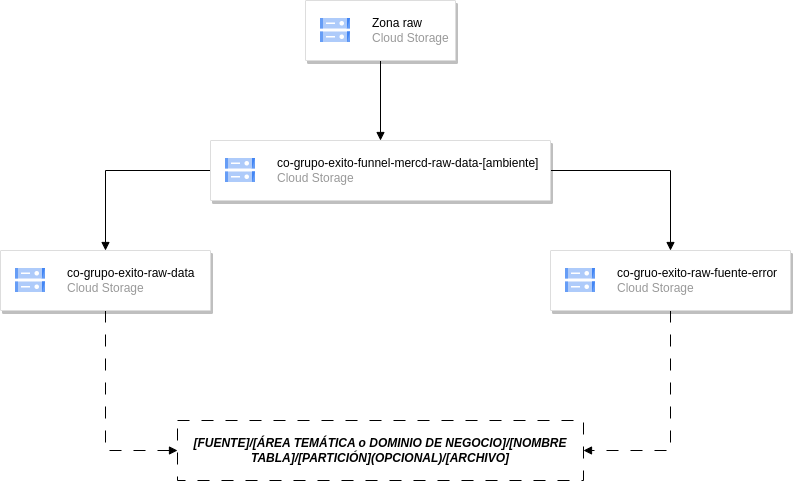
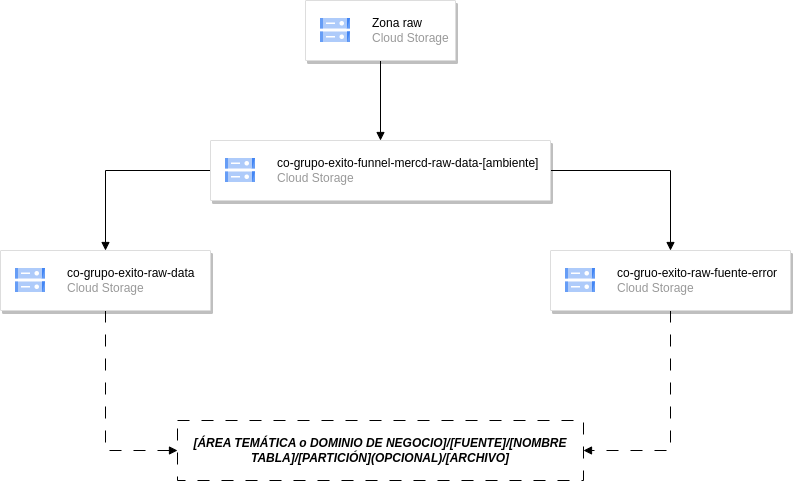
docs: Correcciones en la documentación

Changed region(s): [[0.2421, 0.9044, 0.6356, 0.9356]]

diff --git a/documentacion/reports/ArchitectureDocument.md b/documentacion/reports/ArchitectureDocument.md
@@ -6,7 +6,7 @@ El auge de las tecnologías en la nube ha cambiado radicalmente la forma en que 
 Google Cloud Platform (GCP) emerge como una solución líder, ofreciendo una gama de servicios innovadores que
 proporcionan la agilidad, escalabilidad y seguridad que las empresas modernas requieren.
 
-Este documento describe la arquitectura de datos propuesta para EL proyecto Funnel de Mercadeo, destacando
+Este documento describe la arquitectura de datos propuesta para el proyecto Funnel de Mercadeo, destacando
 la importancia de una infraestructura bien planificada que pueda respaldar tanto la operación inmediata como la visión
 a largo plazo de la organización.
 
@@ -68,7 +68,7 @@ precisos y confiables en todo momento.
 
 | Escenario                              | Given                                                     | When                                                   | Then                                                                                                                                                                                  |
 |----------------------------------------|-----------------------------------------------------------|--------------------------------------------------------|---------------------------------------------------------------------------------------------------------------------------------------------------------------------------------------|
-| Consistencia en el formato de datos    | Dado que los datos se ingresan en el Data Lake            | Cuando varias fuentes contribuyen con datos            | Entonces asegurarse de que los formatos de datos (por ejemplo, CSV, JSON, Apache Parquet, Delta) sean consistentes y validar que todos los campos de fecha sigan el estándar definido |                                                           |                                                        |                                                                                                                                                                  |
+| Consistencia en el formato de datos    | Dado que los datos se ingresan en el Data Lakehouse       | Cuando varias fuentes contribuyen con datos            | Entonces asegurarse de que los formatos de datos (por ejemplo, CSV, JSON, Apache Parquet, Delta) sean consistentes y validar que todos los campos de fecha sigan el estándar definido |                                                           |                                                        |                                                                                                                                                                  |
 | Consistencia en la validación de datos | Dado que se aplican procesos de transformación de datos   | Cuando los datos se transforman y limpian              | Entonces verificar que todos los datos cumplan con las reglas de validación definidas y asegurarse de la consistencia en el manejo de valores nulos en los conjuntos de datos         |
 | Consistencia en metadatos              | Dado que se definen metadatos para los conjuntos de datos | Cuando se realizan cambios en las estructuras de datos | Entonces actualizar automáticamente los metadatos para reflejar los cambios de esquema y asegurarse de que toda la documentación de datos permanezca consistente                      |
 
@@ -162,7 +162,7 @@ internas y externas.
 
 #### Métricas
 
-1. **Tiempo de acceso a datos**: Monitorear el tiempo de acceso a datos en el Data Lake de GCP.
+1. **Tiempo de acceso a datos**: Monitorear el tiempo de acceso a datos en el Data Lakehouse de GCP.
 2. **Latencia de consultas**: Medir la latencia de las consultas en GCP para mantener respuestas rápidas.
 3. **Uso de recursos**: Controlar el uso de recursos en GCP, incluyendo CPU y almacenamiento.
 4. **Seguridad y cumplimiento**: Asegurar la conformidad con las políticas de seguridad y normativas de cumplimiento.
@@ -258,26 +258,56 @@ A continuación, se esquematiza y detalla la arquitectura de datos implementada 
 
 ### Beneficios de la arquitectura
 
-Los beneficios de la arquitectura de Data Lakehouse en GCP incluyen:
+La arquitectura Data Lakehouse presenta numerosos beneficios en la gestión y análisis de datos. Aquí se detallan algunos
+de estos beneficios:
 
-- **Almacenamiento versátil**: Capacidad para manejar datos estructurados y no estructurados, adaptándose a diferentes
-  esquemas.
-- **Escalabilidad eficaz**: Aumento de capacidad de almacenamiento y procesamiento sin sacrificar el rendimiento.
-- **Acceso universal**: Datos accesibles para una amplia gama de herramientas y servicios, facilitando el análisis
-  colaborativo.
-- **Integridad de datos**: Transacciones ACID y un manejo de metadatos robusto garantizan datos consistentes y
-  confiables.
-- **Análisis profundos**: BigQuery facilita el análisis descriptivo y predictivo, potenciando la inteligencia
-  empresarial.
-- **Control de costos**: La infraestructura basada en la nube permite un modelo de pago por uso, optimizando la
-  inversión en recursos tecnológicos.
-- **Ejecución programada de los ETL:** La utilización de workflows de GCP y Cloud Scheduler permite la ejecución
-  programada de los ETL, lo que permite una gestión más eficiente de los procesos de integración de datos.
+1. **Almacenamiento de grandes cantidades de datos de cualquier tipo:** Permite el almacenamiento de grandes volúmenes
+   de datos sin necesidad de esquematizarlos previamente, brindando flexibilidad y escalabilidad. Los datos pueden ser
+   estructurados, semi estructurados o sin estructura.
+2. **Escalabilidad:** Facilita la incorporación de nuevos datos y la expansión de la capacidad de almacenamiento y
+   procesamiento sin afectar el rendimiento ni la funcionalidad de la solución.
+3. **Accesibilidad:** Los datos almacenados en el Data Lakehouse están disponibles para todas las herramientas y
+   aplicaciones que requieran acceso, fomentando la colaboración y el análisis de datos.
+4. **Flexibilidad:** La solución puede almacenar y procesar diferentes tipos de datos, tanto estructurados como no
+   estructurados, y adaptarse a los cambios en los requisitos de los datos. También permite la incorporación de nuevas
+   fuentes de datos y la modificación o eliminación de las existentes.
+5. **Formato abierto de acceso directo:** Los datos se almacenan en formato Delta, basado en Apache Parquet, un formato
+   de archivo de datos de código abierto diseñado para un almacenamiento eficiente y una recuperación de datos efectiva.
+6. **Separación del cómputo y el almacenamiento:** El almacenamiento de datos se centraliza en el Data Lakehouse,
+   mientras que el cómputo se realiza mediante herramientas de procesamiento y análisis como Apache Spark y Dataproc en
+   GCP. Esto permite una gestión eficiente de recursos y una escalabilidad óptima para manejar grandes volúmenes de
+   datos según la demanda.
+7. **Soporte para transacciones ACID:** Delta Lake garantiza la Atomicidad, Consistencia, Aislamiento y Durabilidad (
+   ACID) de todas las transacciones en las tablas delta, manteniendo la consistencia incluso en lecturas e inserciones
+   simultáneas.
+8. **Aplicación y evolución de esquemas:** Delta Lake implementa y mantiene el esquema al escribir datos en el
+   almacenamiento, previniendo la corrupción de datos y permitiendo modificaciones seguras del esquema según sea
+   necesario.
+9. **Soporte para DML (Lenguaje de Manipulación de Datos):** Delta Lake permite operaciones de Inserción, Selección,
+   Actualización y Eliminación, así como escenarios complejos de fusión y actualización en un Data Lake.
+10. **Viaje en el tiempo:** El registro de transacciones de Delta Lake permite acceder al historial de cambios en los
+    datos, lo que facilita la recuperación de versiones anteriores en caso de cambios accidentales.
+11. **Integración de Batch y Streaming en un solo modelo:** Delta Lake es compatible tanto con procesamiento de datos
+    por lotes como en streaming, lo que facilita la gestión de cargas de trabajo incrementales y en tiempo real.
+12. **Gestión escalable de metadatos:** Delta Lake escala las operaciones de procesamiento de metadatos utilizando
+    motores como Apache Spark y Apache Hive, lo que permite gestionar eficazmente metadatos para grandes volúmenes de
+    datos.
+13. **Seguridad y gobernanza mejoradas:** Delta Lake ofrece control de acceso granular a los datos, cumpliendo con
+    regulaciones como el GDPR y proporcionando seguridad en diferentes niveles.
+14. **Compartición de Delta:** Facilita la compartición segura de grandes conjuntos de datos de tablas delta entre
+    equipos de ingeniería de datos sin necesidad de replicación.
+15. **Ejecución programada de los ETL:** La ejecución programada de los ETL se logra mediante workflows de Dataproc, lo
+    que mejora la eficiencia en la gestión de procesos de integración de datos.
+16. **Administración completa de los datos desde GCP:** Permite la gestión integral de datos, incluyendo almacenamiento,
+    procesamiento y análisis, a través de GCP, proporcionando una gestión centralizada y eficiente.
+17. **Costo:** La arquitectura de Data Lakehouse reduce costos al eliminar la necesidad de invertir en hardware y
+    software para el almacenamiento y procesamiento de datos, optimizando el uso de recursos en función de las
+    necesidades.
 
 ### Consideraciones de implementación
 
 1. Uso de **GCP** como plataforma principal para la implementación de la solución de datos.
-2. **Google Cloud Storage** para almacenar las capas raw y trusted, con la capa raw en formato Apache Parquet para
+2. **Google Cloud Storage** para almacenar las capas raw y trusted, con la capa raw en formato Apache Parquet y CSV para
    eficiencia en operaciones de lectura y la capa trusted en formato Delta Lake para operaciones upsert y merge.
 3. **BigQuery** para procesamiento de datos (ETLs) y como motor de almacenamiento del área de presentación, aprovechando
    su capacidad de manejo de grandes volúmenes de datos y análisis avanzados.
@@ -358,12 +388,12 @@ su formato original, ya sea a través de procesos batch o streaming.
 Los datos arribarán al siguiente bucket **`co-grupo-exito-funnel-mercd-raw-data-[ambiente]`** respetando la siguiente
 estructura:
 
-`[país]_[empresa]_raw_data/[FUENTE]/[ÁREA TEMÁTICA o DOMINIO DE NEGOCIO]/[NOMBRE TABLA]/[PARTICIÓN](OPCIONAL)/[ARCHIVO]`
+`[país]_[empresa]_raw_data/[ÁREA TEMÁTICA o DOMINIO DE NEGOCIO]/[FUENTE]/[NOMBRE TABLA]/[PARTICIÓN](OPCIONAL)/[ARCHIVO]`
 
 Si el archivo tuviera errores o hubiera ocurrido un error durante el proceso, el pipeline almacenará el archivo en el
 siguiente ruta:
 
-`[país]_[empresa]_raw_fuente_error/[FUENTE]/[ÁREA TEMÁTICA o DOMINIO DE NEGOCIO]/[NOMBRE TABLA]/[PARTICIÓN](OPCIONAL)/[ARCHIVO]`
+`[país]_[empresa]_raw_fuente_error/[ÁREA TEMÁTICA o DOMINIO DE NEGOCIO]/[FUENTE]/[NOMBRE TABLA]/[PARTICIÓN](OPCIONAL)/[ARCHIVO]`
 
 ![Zona raw](../assets/architecture/RawZone.png)
 
@@ -376,7 +406,7 @@ disponibles para las diferentes iniciativas de modelado de datos, business intel
 Los datos arribarán al bucket **`co-grupo-exito-funnel-mercd-trusted-data-[ambiente]`** y dependiendo de área temática,
 fuente de información o dominio se almacenarán en la siguiente ruta:
 
-`[FUENTE]/[ÁREA TEMÁTICA o DOMINIO DE NEGOCIO]/[NOMBRE TABLA]/[PARTICIÓN](OPCIONAL)/[ARCHIVO]`
+`[ÁREA TEMÁTICA o DOMINIO DE NEGOCIO]/[FUENTE]/[NOMBRE TABLA]/[PARTICIÓN](OPCIONAL)/[ARCHIVO]`
 
 ![Zona trusted](../assets/architecture/TrustedZone.png)
 
